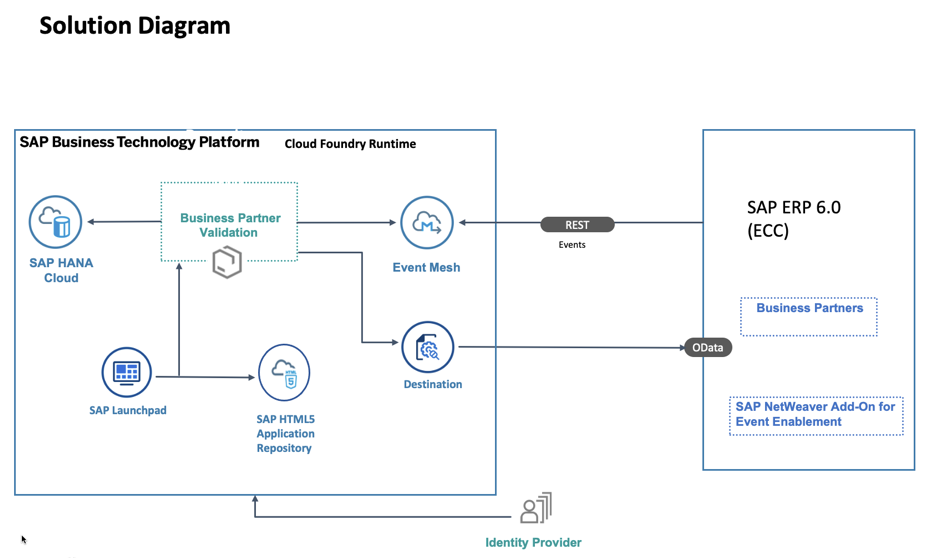
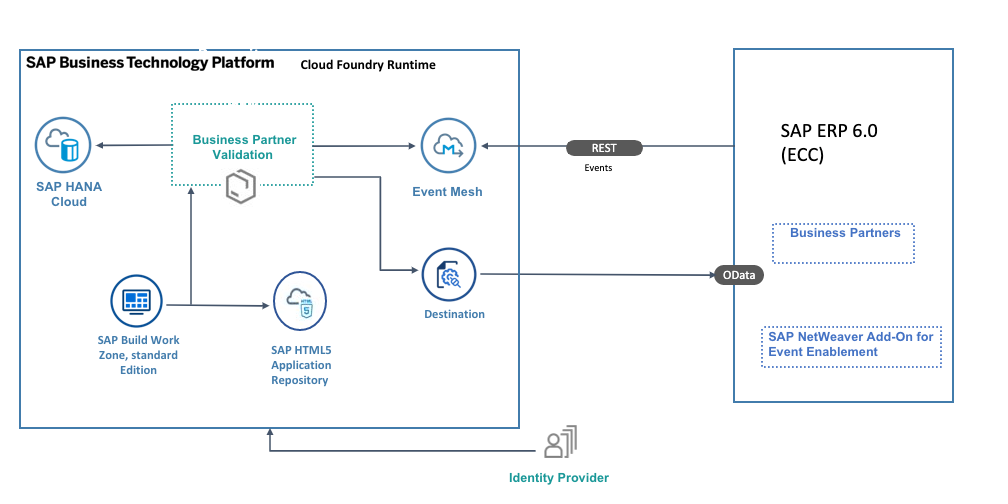
update to SAP Build Workzone

diff --git a/mission/scenario/S4HMission.md b/mission/scenario/S4HMission.md
@@ -62,18 +62,18 @@ The Business Partner Validation application is developed using [SAP Cloud Applic
 
 The application requires a set of SAP BTP entitlements/quota
 
-| Service                           | Plan       | Number of Instances |
-|-----------------------------------|------------|:-------------------:|
-| SAP Event Mesh                    | default    |          1          |
-| Launchpad                         | default    |          1          |
-| SAP HАNА Cloud                    | hana       |          1          |
-| SAP HANA Schemas & HDI Containers | hdi-shared |          1          |
-| SAP BTP, Cloud Foundry runtime    | MEMORY     |          3          |
-| SAP Destination                       | lite       |          1          |
+| Service                              | Plan       | Number of Instances |
+|--------------------------------------|------------|:-------------------:|
+| SAP Event Mesh                       | default    |          1          |
+| SAP Build Work Zone, standard Edtion | standard   |          1          |
+| SAP HАNА Cloud                       | hana       |          1          |
+| SAP HANA Schemas & HDI Containers    | hdi-shared |          1          |
+| SAP BTP, Cloud Foundry runtime       | MEMORY     |          3          |
+| SAP Destination                      | lite       |          1          |
 | SAP Continuous Integration and Delivery (Optional)| default     |          1          |
 
 
-For the development, we recommend SAP Business Application Studio.
+For the development, we recommend **SAP Business Application Studio**.
 
 ### Demo Project Structure
 

diff --git a/mission/scenario/README.md b/mission/scenario/README.md
@@ -61,18 +61,18 @@ The Business Partner Validation application is developed using [SAP Cloud Applic
 
 The application requires below set of SAP BTP entitlements/quota
 
-| Service                           | Plan       | Number of Instances |
-|-----------------------------------|------------|:-------------------:|
-| Event Mesh                        | default    |          1          |
-| Launchpad                         | default    |          1          |
-| SAP Hana Cloud                    | hana       |          1          |
-| SAP HANA Schemas & HDI Containers | hdi-shared |          1          |
-| Cloud Foundry Runtime             | MEMORY     |          3          |
-| Destination                       | lite       |          1          |
+| Service                              | Plan       | Number of Instances |
+|--------------------------------------|------------|:-------------------:|
+| Event Mesh                           | default    |          1          |
+| SAP Build Work Zone, standard Edition| default    |          1          |
+| SAP Hana Cloud                       | hana       |          1          |
+| SAP HANA Schemas & HDI Containers    | hdi-shared |          1          |
+| Cloud Foundry Runtime                | MEMORY     |          3          |
+| Destination                          | lite       |          1          |
 | SAP Continuous Integration and Delivery (Optional)| default     |          1          |
 
 
-For the development we use SAP Business Application Studio.
+For the development we use **SAP Business Application Studio**.
 
 ### Demo Project Structure
 

diff --git a/mission/overview/S4HMission.md b/mission/overview/S4HMission.md
@@ -12,7 +12,7 @@
 * [Discover the Cloud Platform Application Programming Model (CAP)](./../discover/CAP.md)
 * [Discover the SAP HANA Cloud Database](./../discover/HANA.md)
 * [Learn about DevOps and  Continuous Integration & Delivery](../discover/DevOps.md)
-* [Learn about SAP Launchpad service](https://github.com/SAP-samples/cloud-extension-html5-sample/blob/mission/mission/discover/Launchpad.md)
+* [Learn about SAP Build Work Zone, standard Edition](https://github.com/SAP-samples/cloud-extension-html5-sample/blob/mission/mission/discover/Launchpad.md)
 
 ## Landscape Setup
 * [Create a CAL Instance (optional)](../cal-setup/CALS4H.md)
@@ -29,6 +29,6 @@
 * [Create Link between Business Partner Change Document and Change Event](../change-event-linkage/README.md)
 * [Setup Connection and Replication Object for Event Enablement Header](../add-on-instance/S4DataEvent.md)
 * [Optional: Integrate the SAP Continous Integration & Delivery Service](https://github.com/SAP-samples/cloud-sf-extension-cap-sample/blob/mission/mission/cicd/README.md)
-* [Optional: Integrate the Application to SAP Launchpad](https://github.com/SAP-samples/cloud-extension-s4hana-business-process/blob/mission/mission/create-launchpad-app/README.md)
+* [Optional: Integrate the Application to SAP Build Work Zone, standard Edition](https://github.com/SAP-samples/cloud-extension-s4hana-business-process/blob/mission/mission/create-launchpad-app/README.md)
 * [Run the Demo Application](../run-demo/S4RunDemo.md)
 

diff --git a/mission/overview/ECCMission.md b/mission/overview/ECCMission.md
@@ -12,7 +12,7 @@
 * [Discover the Cloud Platform Application Programming Model (CAP)](./../discover/CAP.md)
 * [Discover the SAP HANA Cloud Database](./../discover/HANA.md)
 * [Learn about DevOps and  Continuous Integration & Delivery](../discover/DevOps.md)
-* [Learn about SAP Launchpad service](https://github.com/SAP-samples/cloud-extension-html5-sample/blob/mission/mission/discover/Launchpad.md)
+* [Learn about SAP Build Work Zone, standard Edition](https://github.com/SAP-samples/cloud-extension-html5-sample/blob/mission/mission/discover/Launchpad.md)
 
 ## Landscape Setup
 * [Create a CAL Instance (optional)](../cal-setup/README.md)
@@ -28,6 +28,6 @@
 * [Enable Eventing in ERP](./../enable-eventing/ConfigureS4andECC.md)
 * [Create Add-on Instance for Notfications](../add-on-instance/ECCNotificationEvent.md)
 * [Optional: Integrate the SAP Continous Integration & Delivery Service](https://github.com/SAP-samples/cloud-sf-extension-cap-sample/blob/mission/mission/cicd/README.md)
-* [Optional: Integrate the Application to SAP Launchpad](https://github.com/SAP-samples/cloud-extension-s4hana-business-process/blob/mission/mission/create-launchpad-app/README.md)
+* [Optional: Integrate the Application to SAP Build Work Zone, standard Edition](https://github.com/SAP-samples/cloud-extension-s4hana-business-process/blob/mission/mission/create-launchpad-app/README.md)
 * [Run the Demo Application](../run-demo/README.md)
 

diff --git a/mission/scp-setup/README.md b/mission/scp-setup/README.md
@@ -8,7 +8,7 @@ For running the Extend SAP S/4HANA on SAP BTP Using SAP Netweaver Event Enableme
 * SAP Business Application Studio
 * SAP Event Mesh
 * SAP BTP, Cloud Foundry runtime
-* SAP Launchpad service
+* SAP Build Work Zone, standard Edition
 * SAP HANA service for SAP BTP
 * SAP Continuous Integration & Delivery service (optional)
 

diff --git a/mission/scenario/S4HPrerequisites.md b/mission/scenario/S4HPrerequisites.md
@@ -17,7 +17,7 @@ Ensure that all required systems and components are in place. This means:
   * SAP Event Mesh, 
   * Cloud Foundry Runtime
   * SAP HANA Cloud, 
-  * Launchpad
+  * SAP Build Work Zone, standard Edition
   * SAP Business Application Studio
   * SAP Continuous Integration and Delivery (optionally).
 
